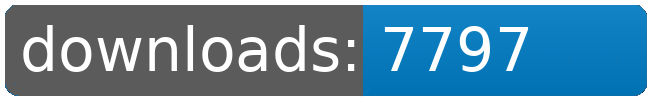
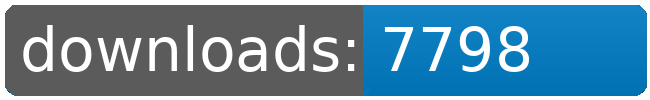
dl log written

Changed region(s): [[0.7692, 0.24, 0.8308, 0.72]]

diff --git a/README.md b/README.md
@@ -21,8 +21,8 @@
 		<td>7767</td>
 		<td>7773</td>
 		<td>7787</td>
-		<td>7797</td>
-		<td>+ 10</td>
+		<td>7798</td>
+		<td>+ 11</td>
 	</tr>
 	<tr>
 		<td>Factory.Outlets</td>
@@ -120,8 +120,8 @@
 		<td></td>
 		<td></td>
 		<td></td>
-		<td>57684</td>
-		<td>83</td>
+		<td>57685</td>
+		<td>84</td>
 	</tr>
 </table>
 </sub></sup>
@@ -157,8 +157,8 @@
 		<td>7767</td>
 		<td>7773</td>
 		<td>7787</td>
-		<td>7797</td>
-		<td>+ 10</td>
+		<td>7798</td>
+		<td>+ 11</td>
 	</tr>
 	<tr>
 		<td>Louise.Conglomerate.Shipyards</td>
@@ -245,8 +245,8 @@
 		<td></td>
 		<td></td>
 		<td></td>
-		<td>57684</td>
-		<td>83</td>
+		<td>57685</td>
+		<td>84</td>
 	</tr>
 </table>
 </sub></sup>
